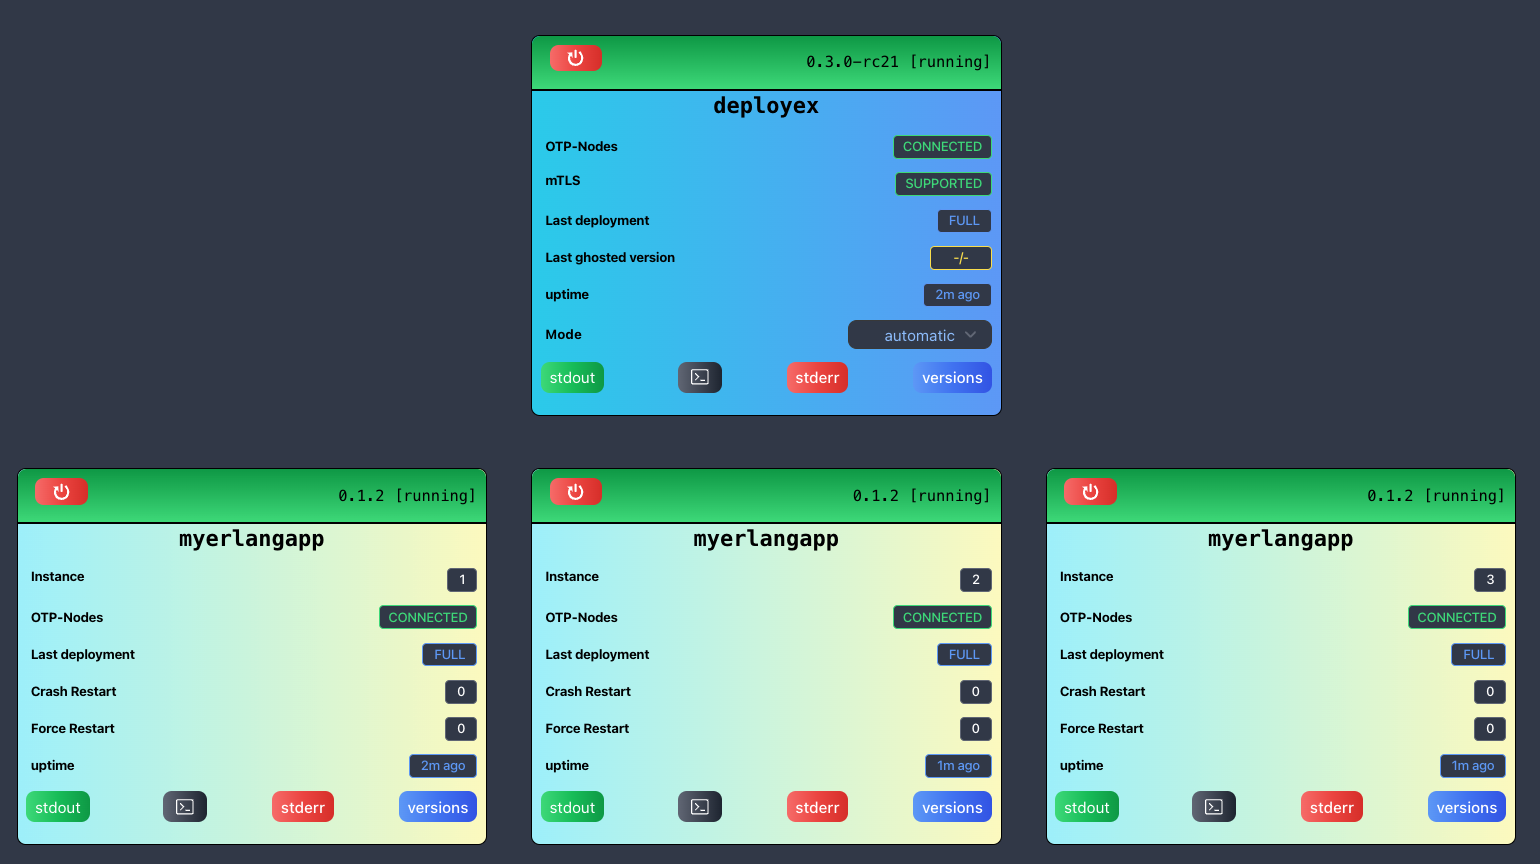
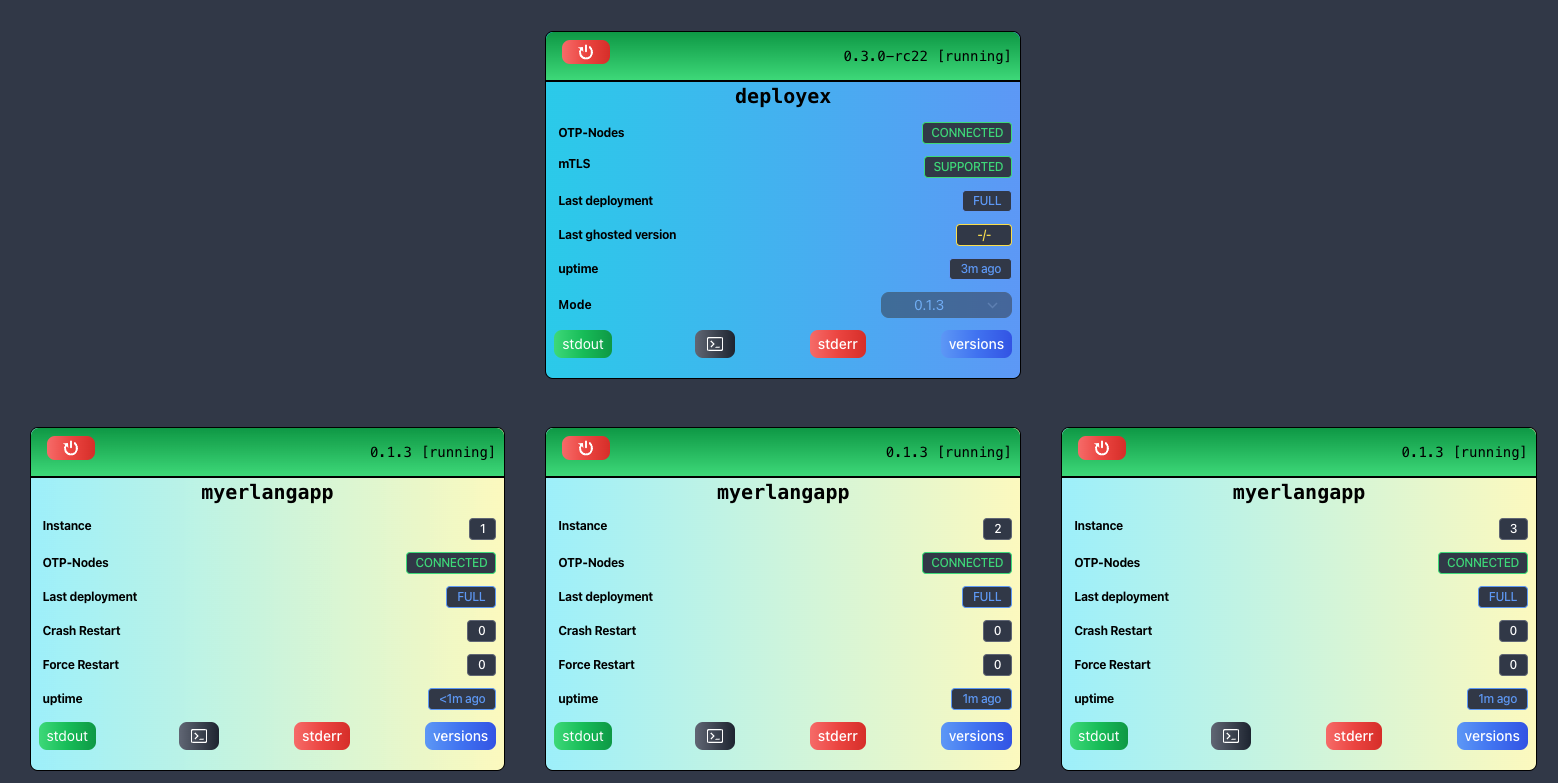
Improving documentation (#81)

Changed region(s): [[0.0, 0.5211, 0.9974, 1.0], [0.3429, 0.0307, 0.6545, 0.4904], [0.4364, 0.092, 0.5299, 0.1533]]

diff --git a/docs/examples/local-erlang/erlang.md b/docs/examples/local-erlang/erlang.md
@@ -24,9 +24,9 @@ rebar3 new release myerlangapp
 cd myerlangapp
 ```
 
-## Add required release vars
+### Add required release vars
 
-Open the args file `config/vm.args` and add the following lines, removing previous suggestions for sname and cookie:
+Open the args file `config/vm.args` and add the following lines, removing previous suggestions for sname and cookie. These variables will be injected by DeployEx:
 
 ```bash
 -sname ${RELEASE_NODE}
@@ -37,9 +37,131 @@ ${RELEASE_SSL_OPTIONS}
 +A30
 ```
 
+Add the modules `inets` and `ssl` in the `apps/myerlangapp/src/myerlangapp.erl` file. They are required for distribution:
+
+```bash
+...
+    {applications, [
+        kernel,
+        stdlib,
+        inets, # <----
+        ssl    # <----
+    ]},
+...
+```
+
+### Add required plugin for hot upgrades
+
+Integrate the [rebar3 appup plugin](https://github.com/lrascao/rebar3_appup_plugin) adding the following commands at `rebar.config`:
+```erlang
+{plugins, [rebar3_appup_plugin]}.
+
+{provider_hooks, [
+    {pre, [{tar, {appup, tar}}]},
+    {post, [{compile, {appup, compile}},
+            {clean, {appup, clean}}]}
+]}.
+```
+
+### Modify profile
+
+Change the `prod` profile at `rebar.config`. This is required for rebar3 appup plugin:
+```erlang
+{profiles, [
+    %% prod is the default mode when prod
+    %% profile is used, so does not have
+    %% to be explicitly included like this
+    {prod, [
+        {relx, [
+            {dev_mode, false},
+            {include_erts, true}
+
+            %% use minimal mode to exclude ERTS
+            %% {mode, minimal}
+        ]}
+    ]}
+]}.
+```
+
+### Add gen_server for testing
+
+Let's create a simple gen_server that prints its version message every second. Create the file `apps/myerlangapp/src/myerlangapp.erl` and populate with:
+
+```erlang
+-module(myerlangapp).
+-behaviour(gen_server).
+
+%% API
+-export([start_link/0, stop/0]).
+
+%% gen_server callbacks
+-export([init/1, handle_call/3, handle_cast/2, handle_info/2, terminate/2, code_change/3]).
+
+%% Starts the GenServer
+start_link() ->
+    gen_server:start_link(?MODULE, [], []).
+
+%% Stops the GenServer
+stop() ->
+    gen_server:cast(?MODULE, stop).
+
+%% Initialization
+init([]) ->
+    timer_send_message(),
+    {ok, #{}}.
+
+%% Handles synchronous calls
+handle_call(_Request, _From, State) ->
+    {reply, ok, State}.
+
+%% Handles asynchronous casts
+handle_cast(stop, State) ->
+    {stop, normal, State}.
+
+%% Handles info messages
+handle_info(timeout, State) ->
+    {_Name, _Description, Version} = lists:keyfind(myerlangapp, 1, application:loaded_applications()),
+    io:format("Version: ~s printed every second~n", [Version]),
+    timer_send_message(),
+    {noreply, State};
+
+handle_info(_Info, State) ->
+    {noreply, State}.
+
+%% Timer to send a message every second
+timer_send_message() ->
+    erlang:send_after(1000, self(), timeout).
+
+%% Clean up on termination
+terminate(_Reason, _State) ->
+    ok.
+
+%% Code change callback
+code_change(_OldVsn, State, _Extra) ->
+    {ok, State}.
+```
+
+Add the gen_server to the supervisor `apps/myerlangapp/src/myerlangapp_sup.erl`:
+
+```erlang
+init([]) ->
+    SupFlags = #{
+        strategy => one_for_all,
+        intensity => 0,
+        period => 1
+    },
+  ChildSpecs = [#{id => myerlangapp,
+                  start => {myerlangapp, start_link, []},
+                  restart => permanent,
+                  type => worker,
+                  shutdown => brutal_kill} ],
+    {ok, {SupFlags, ChildSpecs}}.
+```
+
 ## Generate a release
 Then you can compile and generate a release
 ```bash
+rebar3 as prod release
 rebar3 as prod tar
 ```
 
@@ -79,18 +201,26 @@ iex(deployex@hostname)1>
 
 You should then visit the application and check it is running [localhost:5001](http://localhost:5001/). Since you are not using mTLS, the dashboard should look like this:
 
-![No mTLS Dashboard Erlang](docs/static/deployex_monitoring_app_erlang_no_tls.png)
+![No mTLS Dashboard Erlang](../../static/deployex_monitoring_app_erlang_no_tls.png)
 
-Note that the __OTP-Nodes are connected__, but the __mTLS is not supported__. The __mTLS__ can be enabled and it will be covered ahead. Leave this terminal running and open a new one to compile and release the monitored app.
+You can also click in the stdout log button of `myerlangapp` to check the following message is being printed:
+
+![Stdout button Erlang](../../static/deployex_monitoring_app_erlang_stdout.png)
+![Logs Erlang](../../static/deployex_monitoring_app_erlang_logs.png)
+
+> [!NOTE]
+> The __OTP-Nodes are connected__, but the __mTLS is not supported__. The __mTLS__ can be enabled and it will be covered ahead. Leave this terminal running and open a new one to compile and release the monitored app.
 
 ## Updating the application
 
 ### Full deployment
 
-In this scenario, the existing application will undergo termination, paving the way for the deployment of the new one. It's crucial to maintain the continuous operation of DeployEx throughout this process. Navigate to the `myerlangapp` project and increment the version in the `apps/myerlangapp/src/myerlangapp.app.src` and `rebar.config` files.
+In this scenario, the existing application will undergo termination, paving the way for the deployment of the new one. It's crucial to maintain the continuous operation of DeployEx throughout this process. Navigate to the `myerlangapp` project and increment the version in the `apps/myerlangapp/src/myerlangapp.app.src` and `rebar.config` files to `0.1.1`
 
 1. Remove any previously generated files and generate a new release
 ```bash
+rm -rf _build/
+rebar3 as prod release
 rebar3 as prod tar
 ```
 
@@ -116,6 +246,55 @@ echo "{\"version\":\"0.1.1\",\"pre_commands\": [],\"hash\":\"local\"}" | jq > /t
 [info]  # Moving to the next instance: 2
 ...
 ```
+
+### Hot Upgrade
+
+#### Generating Appup Files
+
+DeployEx is capable of executing hot upgrades using only the appup files. The Rebar3 appup plugin is capable of generating appup and relup files, but for compatibility, we are going to generate only the application appup files (excluding OTP, libraries, etc) and save the `appup` file in the `priv/appup` folder.
+
+> [!ATTENTION]
+> The Rebar3 appup plugin is not fully operation when using different profiles like `prod`, for this reason, we are going to use the default profile ONLY for creating the appup file and copy it to the `priv/appup` folder which will then be packed with the `prod` profile.
+
+Create the folder (if doesn't exist) where the appup file will be stored and build the `default` release for the version `0.1.1` (This is the version where you want to upgrade from):
+```bash
+export app_name=myerlangapp
+mkdir -p "apps/${app_name}/priv/appup"
+rm -rf _build/
+rebar3 release # Creating release for the version that will be upgrade from (default profile)
+```
+
+Update the project repository and/or make the changes for your app. Afterward, increment the version in both the `apps/myerlangapp/src/myerlangapp.app.src` and `rebar.config` files to `0.1.2`. As suggestion, you can add the following print in the `code_change` function of the `gen_server` at `apps/myerlangapp/src/myerlangapp.erl`:
+
+```erlang
+%% Code change callback
+code_change(_OldVsn, State, _Extra) ->
+    io:format("( ͡° ͜ʖ ͡°)_/¯ Hot code reloading happening here"),
+    {ok, State}.
+```
+
+Let's then generate the `0.1.2` release with the appup file:
+```bash
+export app_name=myerlangapp
+rebar3 as prod release
+rebar3 as prod appup generate --previous "${PWD}/_build/default/rel/myerlangapp"  --target_dir "${PWD}/apps/${app_name}/priv/appup"
+# ===> current base dir: "/home/ubuntu/myerlangapp/_build/default"
+# ===> app myerlangapp ebin dir: "/home/ubuntu/myerlangapp/_build/default/lib/myerlangapp/ebin"
+# ===> Generated appup ("0.1.1" <-> "0.1.2") for myerlangapp in "/home/ubuntu/myerlangapp/apps/myerlangapp/priv/appup/myerlangapp.appup"
+rebar3 as prod tar
+```
+
+Copy the files in the respective folders:
+```bash
+export app_name=myerlangapp
+cp _build/prod/rel/${app_name}/${app_name}-0.1.2.tar.gz /tmp/${app_name}/dist/${app_name}
+echo "{\"version\":\"0.1.2\",\"pre_commands\": [],\"hash\":\"local\"}" | jq > /tmp/${app_name}/versions/${app_name}/local/current.json
+```
+
+you can check in the logs that the Hotupgrade was executed with success:
+![hot upgrade logs](../../static/deployex_monitoring_app_erlang_ht_logs.png)
+
+you can also restart the application to check that the hotupgrade persisted.
 
 ## 🔑 Enhancing OTP Distribution Security with mTLS
 
@@ -162,25 +341,11 @@ EOF
 )
 ```
 
-4. Since the default erlang application doesn't enable tls and ssh, you need to add these libraries, open the file `apps/myerlangapp/src/myerlangapp.app.src` and add inets and ssl:
-```bash
-    ...
-    {mod, {myerlangapp_app, []}},
-    {applications, [
-        kernel,
-        stdlib,
-        inets,
-        ssl
-    ]},
-    {env, []},
-    ...
-```bash
-
-5. To enable `mTLS` for DeployEx, set the appropriate Erlang options before running the application in the terminal:
+4. To enable `mTLS` for DeployEx, set the appropriate Erlang options before running the application in the terminal:
 ```bash
 ELIXIR_ERL_OPTIONS="-proto_dist inet_tls -ssl_dist_optfile /tmp/inet_tls.conf -setcookie cookie" iex --sname deployex -S mix phx.server
 ```
 
-After making these changes, create and publish a new version `0.1.2` for `myerlangapp` and run the DeployEx with the command from item 5. After the deployment, you should see the following dashboard:
+After implementing these changes, create and publish a new version, `0.1.3`, for `myerlangapp`. Then, run DeployEx using the command from item 4. After deployment, you should see the following dashboard:
 
-![mTLS Dashboard Erlang](docs/static/deployex_monitoring_app_erlang_tls.png)
+![mTLS Dashboard Erlang](../../static/deployex_monitoring_app_erlang_tls.png)

diff --git a/docs/examples/local-gleam/gleam.md b/docs/examples/local-gleam/gleam.md
@@ -93,7 +93,7 @@ iex(deployex@hostname)1>
 
 You should then visit the application and check it is running [localhost:5001](http://localhost:5001/). Since you are not using mTLS, the dashboard should look like this:
 
-![No mTLS Dashboard Gleam](docs/static/deployex_monitoring_app_gleam_no_tls.png)
+![No mTLS Dashboard Gleam](../../static/deployex_monitoring_app_gleam_no_tls.png)
 
 Note that the __OTP-Nodes are connected__, but the __mTLS is not supported__. The __mTLS__ can be enabled and it will be covered ahead. Leave this terminal running and open a new one to compile and release the monitored app.
 
@@ -186,4 +186,4 @@ ELIXIR_ERL_OPTIONS="-proto_dist inet_tls -ssl_dist_optfile /tmp/inet_tls.conf -s
 
 After making these changes, create and publish a new version `0.1.2` for `mygleamapp` and run the DeployEx with the command from item 5. After the deployment, you should see the following dashboard:
 
-![mTLS Dashboard Gleam](docs/static/deployex_monitoring_app_gleam_tls.png)
+![mTLS Dashboard Gleam](../../static/deployex_monitoring_app_gleam_tls.png)
